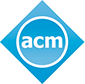
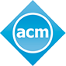
create search functionality

diff --git a/app/index.html b/app/index.html
@@ -1,8 +1,9 @@
 <!doctype html>
-<html lang="">
-  <head>
+<html lang="en">
+
+<head>
     <meta charset="utf-8">
-    <meta name="description" content="">
+    <meta name="description" content="Search for logos!">
     <meta name="viewport" content="width=device-width, initial-scale=1">
     <title>logo search</title>
 
@@ -11,89 +12,111 @@
 
     <!-- build:css styles/vendor.css -->
     <!-- bower:css -->
-    <link rel="stylesheet" href="/bower_components/bootstrap/dist/css/bootstrap.css" />
+    <link rel="stylesheet" href="/bower_components/bootstrap/dist/css/bootstrap.css">
     <!-- endbower -->
     <!-- endbuild -->
 
     <!-- build:css styles/main.css -->
     <link rel="stylesheet" href="styles/main.css">
     <!-- endbuild -->
+    <link href="https://fonts.googleapis.com/css?family=Great+Vibes" rel="stylesheet">
 
-  </head>
-  <body>
+</head>
+
+<body>
     <!--[if lt IE 10]>
-      <p class="browserupgrade">You are using an <strong>outdated</strong> browser. Please <a href="http://browsehappy.com/">upgrade your browser</a> to improve your experience.</p>
-    <![endif]-->
+<p class="browserupgrade">You are using an <strong>outdated</strong> browser. Please <a href="http://browsehappy.com/">upgrade your browser</a> to improve your experience.</p>
+<![endif]-->
 
     <div class="container">
-      <header class="col-xs-12 text-center">
-      <h1>Society Education Programs</h1>
-      </header>
+        <header class="col-xs-12 text-center">
+            <h1 class="title">Society Education Programs</h1>
+        </header>
 
-      <div class="row text-center">
-      FORM HERE
-    </div>
+        <div class="row text-center">
+            <form id="search-form">
+                <select name="type" id="type" class="text-uppercase">
+        <option value="none">No Aid</option>
+        <option value="scholarship">Scholarship</option>
+        <option value="loan">Loan</option>
+      </select>
+                <select name="level" id="level" class="text-uppercase">
+        <option value="none">No Level</option>
+        <option value="k12">K-12</option>
+        <option value="highschool">High School</option>
+      </select>
+                <input class="btn btn-danger text-uppercase" type="submit" value="Search" id="search-button">
+            </form>
+        </div>
 
-    <div class="row">
-      <div class="col-xs-12 col-sm-6 col-md-4 col-lg-3">
-      <img class="img-responsive" src="images/aci.png">
-      </div>
-      <div class="col-xs-12 col-sm-6 col-md-4 col-lg-3">
-      <img class="img-responsive" src="images/aci.png">
-      </div>
-      <div class="col-xs-12 col-sm-6 col-md-4 col-lg-3">
-      <img class="img-responsive" src="images/aci.png">
-      </div>
-      <div class="col-xs-12 col-sm-6 col-md-4 col-lg-3">
-      <img class="img-responsive" src="images/aci.png">
-      </div>
-      <div class="col-xs-12 col-sm-6 col-md-4 col-lg-3">
-      <img class="img-responsive" src="images/aci.png">
-      </div>
-      <div class="col-xs-12 col-sm-6 col-md-4 col-lg-3">
-      <img class="img-responsive" src="images/aci.png">
-      </div>
-      <div class="col-xs-12 col-sm-6 col-md-4 col-lg-3">
-      <img class="img-responsive" src="images/aci.png">
-      </div>
-      <div class="col-xs-12 col-sm-6 col-md-4 col-lg-3">
-      <img class="img-responsive" src="images/aci.png">
-      </div>
-      <div class="col-xs-12 col-sm-6 col-md-4 col-lg-3">
-      <img class="img-responsive" src="images/aci.png">
-      </div>
-      <div class="col-xs-12 col-sm-6 col-md-4 col-lg-3">
-      <img class="img-responsive" src="images/aci.png">
-      </div>
-      <div class="col-xs-12 col-sm-6 col-md-4 col-lg-3">
-      <img class="img-responsive" src="images/aci.png">
-      </div>
-      <div class="col-xs-12 col-sm-6 col-md-4 col-lg-3">
-      <img class="img-responsive" src="images/aci.png">
-      </div>
-      <div class="col-xs-12 col-sm-6 col-md-4 col-lg-3">
-      <img class="img-responsive" src="images/aci.png">
-      </div>
-      <div class="col-xs-12 col-sm-6 col-md-4 col-lg-3">
-      <img class="img-responsive" src="images/aci.png">
-      </div>
-      <div class="col-xs-12 col-sm-6 col-md-4 col-lg-3">
-      <img class="img-responsive" src="images/aci.png">
-      </div>
-      <div class="col-xs-12 col-sm-6 col-md-4 col-lg-3">
-      <img class="img-responsive" src="images/aci.png">
-      </div>
-
+        <div class="row picture-matrix">
+            <div class="col-xs-6 col-sm-6 col-md-4 col-lg-3">
+                <img class="scholarship k12 img-responsive" src="images/aci.png" alt="logo">
+            </div>
+            <div class="col-xs-6 col-sm-6 col-md-4 col-lg-3">
+                <img class="scholarship highschool img-responsive" src="images/acm.png" alt="logo">
+            </div>
+            <div class="col-xs-6 col-sm-6 col-md-4 col-lg-3">
+                <img class="scholarship k12 img-responsive" src="images/afe.png" alt="logo">
+            </div>
+            <div class="col-xs-6 col-sm-6 col-md-4 col-lg-3">
+                <img class="scholarship k12 img-responsive" src="images/aci.png" alt="logo">
+            </div>
+            <div class="col-xs-6 col-sm-6 col-md-4 col-lg-3">
+                <img class="loan highschool img-responsive" src="images/acm.png" alt="logo">
+            </div>
+            <div class="col-xs-6 col-sm-6 col-md-4 col-lg-3">
+                <img class="scholarship highschool img-responsive" src="images/afe.png" alt="logo">
+            </div>
+            <div class="col-xs-6 col-sm-6 col-md-4 col-lg-3">
+                <img class="scholarship highschool img-responsive" src="images/aci.png" alt="logo">
+            </div>
+            <div class="col-xs-6 col-sm-6 col-md-4 col-lg-3">
+                <img class="scholarship highschool img-responsive" src="images/acm.png" alt="logo">
+            </div>
+            <div class="col-xs-6 col-sm-6 col-md-4 col-lg-3">
+                <img class="loan k12 img-responsive" src="images/afe.png" alt="logo">
+            </div>
+            <div class="col-xs-6 col-sm-6 col-md-4 col-lg-3">
+                <img class="loan k12 img-responsive" src="images/aci.png" alt="logo">
+            </div>
+            <div class="col-xs-6 col-sm-6 col-md-4 col-lg-3">
+                <img class="loan k12 img-responsive" src="images/acm.png" alt="logo">
+            </div>
+            <div class="col-xs-6 col-sm-6 col-md-4 col-lg-3">
+                <img class="loan k12 img-responsive" src="images/afe.png" alt="logo">
+            </div>
+            <div class="col-xs-6 col-sm-6 col-md-4 col-lg-3">
+                <img class="scholarship highschool img-responsive" src="images/aci.png" alt="logo">
+            </div>
+            <div class="col-xs-6 col-sm-6 col-md-4 col-lg-3">
+                <img class="loan highschool img-responsive" src="images/acm.png" alt="logo">
+            </div>
+            <div class="col-xs-6 col-sm-6 col-md-4 col-lg-3">
+                <img class="loan highschool img-responsive" src="images/afe.png" alt="logo">
+            </div>
+            <div class="col-xs-6 col-sm-6 col-md-4 col-lg-3">
+                <img class="scholarship highschool img-responsive" src="images/aci.png" alt="logo">
+            </div>
+        </div>
     </div>
 
     <!-- Google Analytics: change UA-XXXXX-X to be your site's ID. -->
     <script>
-      (function(b,o,i,l,e,r){b.GoogleAnalyticsObject=l;b[l]||(b[l]=
-      function(){(b[l].q=b[l].q||[]).push(arguments)});b[l].l=+new Date;
-      e=o.createElement(i);r=o.getElementsByTagName(i)[0];
-      e.src='https://www.google-analytics.com/analytics.js';
-      r.parentNode.insertBefore(e,r)}(window,document,'script','ga'));
-      ga('create','UA-XXXXX-X');ga('send','pageview');
+        (function(b, o, i, l, e, r) {
+            b.GoogleAnalyticsObject = l;
+            b[l] || (b[l] =
+                function() {
+                    (b[l].q = b[l].q || []).push(arguments)
+                });
+            b[l].l = +new Date;
+            e = o.createElement(i);
+            r = o.getElementsByTagName(i)[0];
+            e.src = 'https://www.google-analytics.com/analytics.js';
+            r.parentNode.insertBefore(e, r)
+        }(window, document, 'script', 'ga'));
+        ga('create', 'UA-XXXXX-X');
+        ga('send', 'pageview');
     </script>
 
     <!-- build:js scripts/vendor.js -->
@@ -120,5 +143,6 @@
     <!-- build:js scripts/main.js -->
     <script src="scripts/main.js"></script>
     <!-- endbuild -->
-  </body>
+</body>
+
 </html>

diff --git a/dist/index.html b/dist/index.html
@@ -1,8 +1,16 @@
-<!doctype html><html lang=""><head><meta charset="utf-8"><meta name="description" content=""><meta name="viewport" content="width=device-width,initial-scale=1"><title>logo search</title><link rel="apple-touch-icon" href="apple-touch-icon.png"><!-- Place favicon.ico in the root directory --><link rel="stylesheet" href="styles/vendor.css"><link rel="stylesheet" href="styles/main.css"></head><body><!--[if lt IE 10]>
-      <p class="browserupgrade">You are using an <strong>outdated</strong> browser. Please <a href="http://browsehappy.com/">upgrade your browser</a> to improve your experience.</p>
-    <![endif]--><div class="container"><header class="col-xs-12 text-center"><h1>Society Education Programs</h1></header><div class="row text-center">FORM HERE</div><div class="row"><div class="col-xs-12 col-sm-6 col-md-4 col-lg-3"><img class="img-responsive" src="images/aci.png"></div><div class="col-xs-12 col-sm-6 col-md-4 col-lg-3"><img class="img-responsive" src="images/aci.png"></div><div class="col-xs-12 col-sm-6 col-md-4 col-lg-3"><img class="img-responsive" src="images/aci.png"></div><div class="col-xs-12 col-sm-6 col-md-4 col-lg-3"><img class="img-responsive" src="images/aci.png"></div><div class="col-xs-12 col-sm-6 col-md-4 col-lg-3"><img class="img-responsive" src="images/aci.png"></div><div class="col-xs-12 col-sm-6 col-md-4 col-lg-3"><img class="img-responsive" src="images/aci.png"></div><div class="col-xs-12 col-sm-6 col-md-4 col-lg-3"><img class="img-responsive" src="images/aci.png"></div><div class="col-xs-12 col-sm-6 col-md-4 col-lg-3"><img class="img-responsive" src="images/aci.png"></div><div class="col-xs-12 col-sm-6 col-md-4 col-lg-3"><img class="img-responsive" src="images/aci.png"></div><div class="col-xs-12 col-sm-6 col-md-4 col-lg-3"><img class="img-responsive" src="images/aci.png"></div><div class="col-xs-12 col-sm-6 col-md-4 col-lg-3"><img class="img-responsive" src="images/aci.png"></div><div class="col-xs-12 col-sm-6 col-md-4 col-lg-3"><img class="img-responsive" src="images/aci.png"></div><div class="col-xs-12 col-sm-6 col-md-4 col-lg-3"><img class="img-responsive" src="images/aci.png"></div><div class="col-xs-12 col-sm-6 col-md-4 col-lg-3"><img class="img-responsive" src="images/aci.png"></div><div class="col-xs-12 col-sm-6 col-md-4 col-lg-3"><img class="img-responsive" src="images/aci.png"></div><div class="col-xs-12 col-sm-6 col-md-4 col-lg-3"><img class="img-responsive" src="images/aci.png"></div></div><!-- Google Analytics: change UA-XXXXX-X to be your site's ID. --><script>(function(b,o,i,l,e,r){b.GoogleAnalyticsObject=l;b[l]||(b[l]=
-      function(){(b[l].q=b[l].q||[]).push(arguments)});b[l].l=+new Date;
-      e=o.createElement(i);r=o.getElementsByTagName(i)[0];
-      e.src='https://www.google-analytics.com/analytics.js';
-      r.parentNode.insertBefore(e,r)}(window,document,'script','ga'));
-      ga('create','UA-XXXXX-X');ga('send','pageview');</script><script src="scripts/vendor.js"></script><script src="scripts/plugins.js"></script><script src="scripts/main.js"></script></div></body></html>
+<!doctype html><html lang="en"><head><meta charset="utf-8"><meta name="description" content="Search for logos!"><meta name="viewport" content="width=device-width,initial-scale=1"><title>logo search</title><link rel="apple-touch-icon" href="apple-touch-icon.png"><!-- Place favicon.ico in the root directory --><link rel="stylesheet" href="styles/vendor.css"><link rel="stylesheet" href="styles/main.css"><link href="https://fonts.googleapis.com/css?family=Great+Vibes" rel="stylesheet"></head><body><!--[if lt IE 10]>
+<p class="browserupgrade">You are using an <strong>outdated</strong> browser. Please <a href="http://browsehappy.com/">upgrade your browser</a> to improve your experience.</p>
+<![endif]--><div class="container"><header class="col-xs-12 text-center"><h1 class="title">Society Education Programs</h1></header><div class="row text-center"><form id="search-form"><select name="type" id="type" class="text-uppercase"><option value="none">No Aid</option><option value="scholarship">Scholarship</option><option value="loan">Loan</option></select><select name="level" id="level" class="text-uppercase"><option value="none">No Level</option><option value="k12">K-12</option><option value="highschool">High School</option></select><input class="btn btn-danger text-uppercase" type="submit" value="Search" id="search-button"></form></div><div class="row picture-matrix"><div class="col-xs-6 col-sm-6 col-md-4 col-lg-3"><img class="scholarship k12 img-responsive" src="images/aci.png" alt="logo"></div><div class="col-xs-6 col-sm-6 col-md-4 col-lg-3"><img class="scholarship highschool img-responsive" src="images/acm.png" alt="logo"></div><div class="col-xs-6 col-sm-6 col-md-4 col-lg-3"><img class="scholarship k12 img-responsive" src="images/afe.png" alt="logo"></div><div class="col-xs-6 col-sm-6 col-md-4 col-lg-3"><img class="scholarship k12 img-responsive" src="images/aci.png" alt="logo"></div><div class="col-xs-6 col-sm-6 col-md-4 col-lg-3"><img class="loan highschool img-responsive" src="images/acm.png" alt="logo"></div><div class="col-xs-6 col-sm-6 col-md-4 col-lg-3"><img class="scholarship highschool img-responsive" src="images/afe.png" alt="logo"></div><div class="col-xs-6 col-sm-6 col-md-4 col-lg-3"><img class="scholarship highschool img-responsive" src="images/aci.png" alt="logo"></div><div class="col-xs-6 col-sm-6 col-md-4 col-lg-3"><img class="scholarship highschool img-responsive" src="images/acm.png" alt="logo"></div><div class="col-xs-6 col-sm-6 col-md-4 col-lg-3"><img class="loan k12 img-responsive" src="images/afe.png" alt="logo"></div><div class="col-xs-6 col-sm-6 col-md-4 col-lg-3"><img class="loan k12 img-responsive" src="images/aci.png" alt="logo"></div><div class="col-xs-6 col-sm-6 col-md-4 col-lg-3"><img class="loan k12 img-responsive" src="images/acm.png" alt="logo"></div><div class="col-xs-6 col-sm-6 col-md-4 col-lg-3"><img class="loan k12 img-responsive" src="images/afe.png" alt="logo"></div><div class="col-xs-6 col-sm-6 col-md-4 col-lg-3"><img class="scholarship highschool img-responsive" src="images/aci.png" alt="logo"></div><div class="col-xs-6 col-sm-6 col-md-4 col-lg-3"><img class="loan highschool img-responsive" src="images/acm.png" alt="logo"></div><div class="col-xs-6 col-sm-6 col-md-4 col-lg-3"><img class="loan highschool img-responsive" src="images/afe.png" alt="logo"></div><div class="col-xs-6 col-sm-6 col-md-4 col-lg-3"><img class="scholarship highschool img-responsive" src="images/aci.png" alt="logo"></div></div></div><!-- Google Analytics: change UA-XXXXX-X to be your site's ID. --><script>(function(b, o, i, l, e, r) {
+            b.GoogleAnalyticsObject = l;
+            b[l] || (b[l] =
+                function() {
+                    (b[l].q = b[l].q || []).push(arguments)
+                });
+            b[l].l = +new Date;
+            e = o.createElement(i);
+            r = o.getElementsByTagName(i)[0];
+            e.src = 'https://www.google-analytics.com/analytics.js';
+            r.parentNode.insertBefore(e, r)
+        }(window, document, 'script', 'ga'));
+        ga('create', 'UA-XXXXX-X');
+        ga('send', 'pageview');</script><script src="scripts/vendor.js"></script><script src="scripts/plugins.js"></script><script src="scripts/main.js"></script></body></html>

diff --git a/app/styles/main.css b/app/styles/main.css
@@ -1,89 +1,36 @@
 .browserupgrade {
-  margin: 0.2em 0;
-  background: #ccc;
-  color: #000;
-  padding: 0.2em 0;
+    margin: 0.2em 0;
+    background: #ccc;
+    color: #000;
+    padding: 0.2em 0;
 }
-
-/* Space out content a bit */
 body {
-  padding-top: 20px;
-  padding-bottom: 20px;
+    padding-top: 20px;
+    padding-bottom: 20px;
 }
-
-/* Everything but the jumbotron gets side spacing for mobile first views */
-.header,
-.marketing,
-.footer {
-  padding-left: 15px;
-  padding-right: 15px;
+.title {
+    font-family: 'Great Vibes', cursive;
+    color: #a12c33;
+    font-size: 75px;
 }
-
-/* Custom page header */
-.header {
-  border-bottom: 1px solid #e5e5e5;
+img {
+    margin: 0 auto;
 }
-
-/* Make the masthead heading the same height as the navigation */
-.header h3 {
-  margin-top: 0;
-  margin-bottom: 0;
-  line-height: 40px;
-  padding-bottom: 19px;
+.row div {
+    padding: 20px;
 }
-
-/* Custom page footer */
-.footer {
-  padding-top: 19px;
-  color: #777;
-  border-top: 1px solid #e5e5e5;
+#type,
+#level {
+    width: 200px;
+    padding: 8px;
+    margin-bottom: 5px;
+    font-weight: bold;
+    color: gray;
 }
-
-.container-narrow > hr {
-  margin: 30px 0;
-}
-
-/* Main marketing message and sign up button */
-.jumbotron {
-  text-align: center;
-  border-bottom: 1px solid #e5e5e5;
-}
-
-.jumbotron .btn {
-  font-size: 21px;
-  padding: 14px 24px;
-}
-
-/* Supporting marketing content */
-.marketing {
-  margin: 40px 0;
-}
-
-.marketing p + h4 {
-  margin-top: 28px;
-}
-
-/* Responsive: Portrait tablets and up */
-@media screen and (min-width: 768px) {
-  .container {
-    max-width: 730px;
-  }
-
-  /* Remove the padding we set earlier */
-  .header,
-  .marketing,
-  .footer {
-    padding-left: 0;
-    padding-right: 0;
-  }
-
-  /* Space out the masthead */
-  .header {
-    margin-bottom: 30px;
-  }
-
-  /* Remove the bottom border on the jumbotron for visual effect */
-  .jumbotron {
-    border-bottom: 0;
-  }
+#search-button {
+    display: block;
+    width: 100px;
+    margin: 0 auto;
+    font-weight: bold;
+    background-color: crimson;
 }

diff --git a/app/scripts/main.js b/app/scripts/main.js
@@ -1,1 +1,45 @@
-console.log('\'Allo \'Allo!');
+$(function() {
+    var type;
+    var level;
+
+    function createColorImgSrc(src) {
+        return 'images/' + src.slice(7, src.length - 4) + ' - color.png';
+    }
+
+    function removeColorImgSrc(src) {
+        if (src.includes('color')) {
+            return 'images/' + src.slice(7, 10) + '.png';
+        } else {
+            return src;
+        }
+    }
+
+    function getSelectValue(name) {
+        return $('select[name=' + name + ']').val();
+
+    }
+
+    function getImagesInMatrix() {
+        return $('.picture-matrix div img');
+    }
+
+    function tagContainsClass(cls, tags) {
+        return ($.inArray(cls, tags) != -1);
+    }
+
+    $('#search-form').submit(function(e) {
+        e.preventDefault();
+        type = getSelectValue('type');
+        level = getSelectValue('level');
+        var query = getImagesInMatrix();
+        $.each(query, function(n, item) {
+            $(item).attr('src', removeColorImgSrc($(item).attr('src')));
+            var currentTagClasses = $(item).attr('class').split(' ');
+            var containsType = tagContainsClass(type, currentTagClasses);
+            var containsLevel = tagContainsClass(level, currentTagClasses);
+            if (containsType || containsLevel) {
+                $(item).attr('src', createColorImgSrc($(item).attr('src')));
+            }
+        })
+    })
+});

diff --git a/dist/styles/main.css b/dist/styles/main.css
@@ -1,1 +1,1 @@
-.browserupgrade{margin:.2em 0;background:#ccc;color:#000;padding:.2em 0}body{padding-top:20px;padding-bottom:20px}.footer,.header,.marketing{padding-left:15px;padding-right:15px}.header{border-bottom:1px solid #e5e5e5}.header h3{margin-top:0;margin-bottom:0;line-height:40px;padding-bottom:19px}.footer{padding-top:19px;color:#777;border-top:1px solid #e5e5e5}.container-narrow>hr{margin:30px 0}.jumbotron{text-align:center;border-bottom:1px solid #e5e5e5}.jumbotron .btn{font-size:21px;padding:14px 24px}.marketing{margin:40px 0}.marketing p+h4{margin-top:28px}@media screen and (min-width:768px){.container{max-width:730px}.footer,.header,.marketing{padding-left:0;padding-right:0}.header{margin-bottom:30px}.jumbotron{border-bottom:0}}
+.browserupgrade{margin:.2em 0;background:#ccc;color:#000;padding:.2em 0}body{padding-top:20px;padding-bottom:20px}.title{font-family:Great Vibes,cursive;color:#a12c33;font-size:75px}img{margin:0 auto}.row div{padding:20px}#level,#type{width:200px;padding:8px;margin-bottom:5px;font-weight:700;color:gray}#search-button{display:block;width:100px;margin:0 auto;font-weight:700;background-color:crimson}

diff --git a/dist/scripts/main.js b/dist/scripts/main.js
@@ -1,1 +1,1 @@
-"use strict";console.log("'Allo 'Allo!");
+"use strict";$(function(){function t(t){return"images/"+t.slice(7,t.length-4)+" - color.png"}function r(t){return t.includes("color")?"images/"+t.slice(7,10)+".png":t}function n(t){return $("select[name="+t+"]").val()}function e(){return $(".picture-matrix div img")}function c(t,r){return $.inArray(t,r)!=-1}var i,a;$("#search-form").submit(function(u){u.preventDefault(),i=n("type"),a=n("level");var s=e();$.each(s,function(n,e){$(e).attr("src",r($(e).attr("src")));var u=$(e).attr("class").split(" "),s=c(i,u),l=c(a,u);(s||l)&&$(e).attr("src",t($(e).attr("src")))})})});
